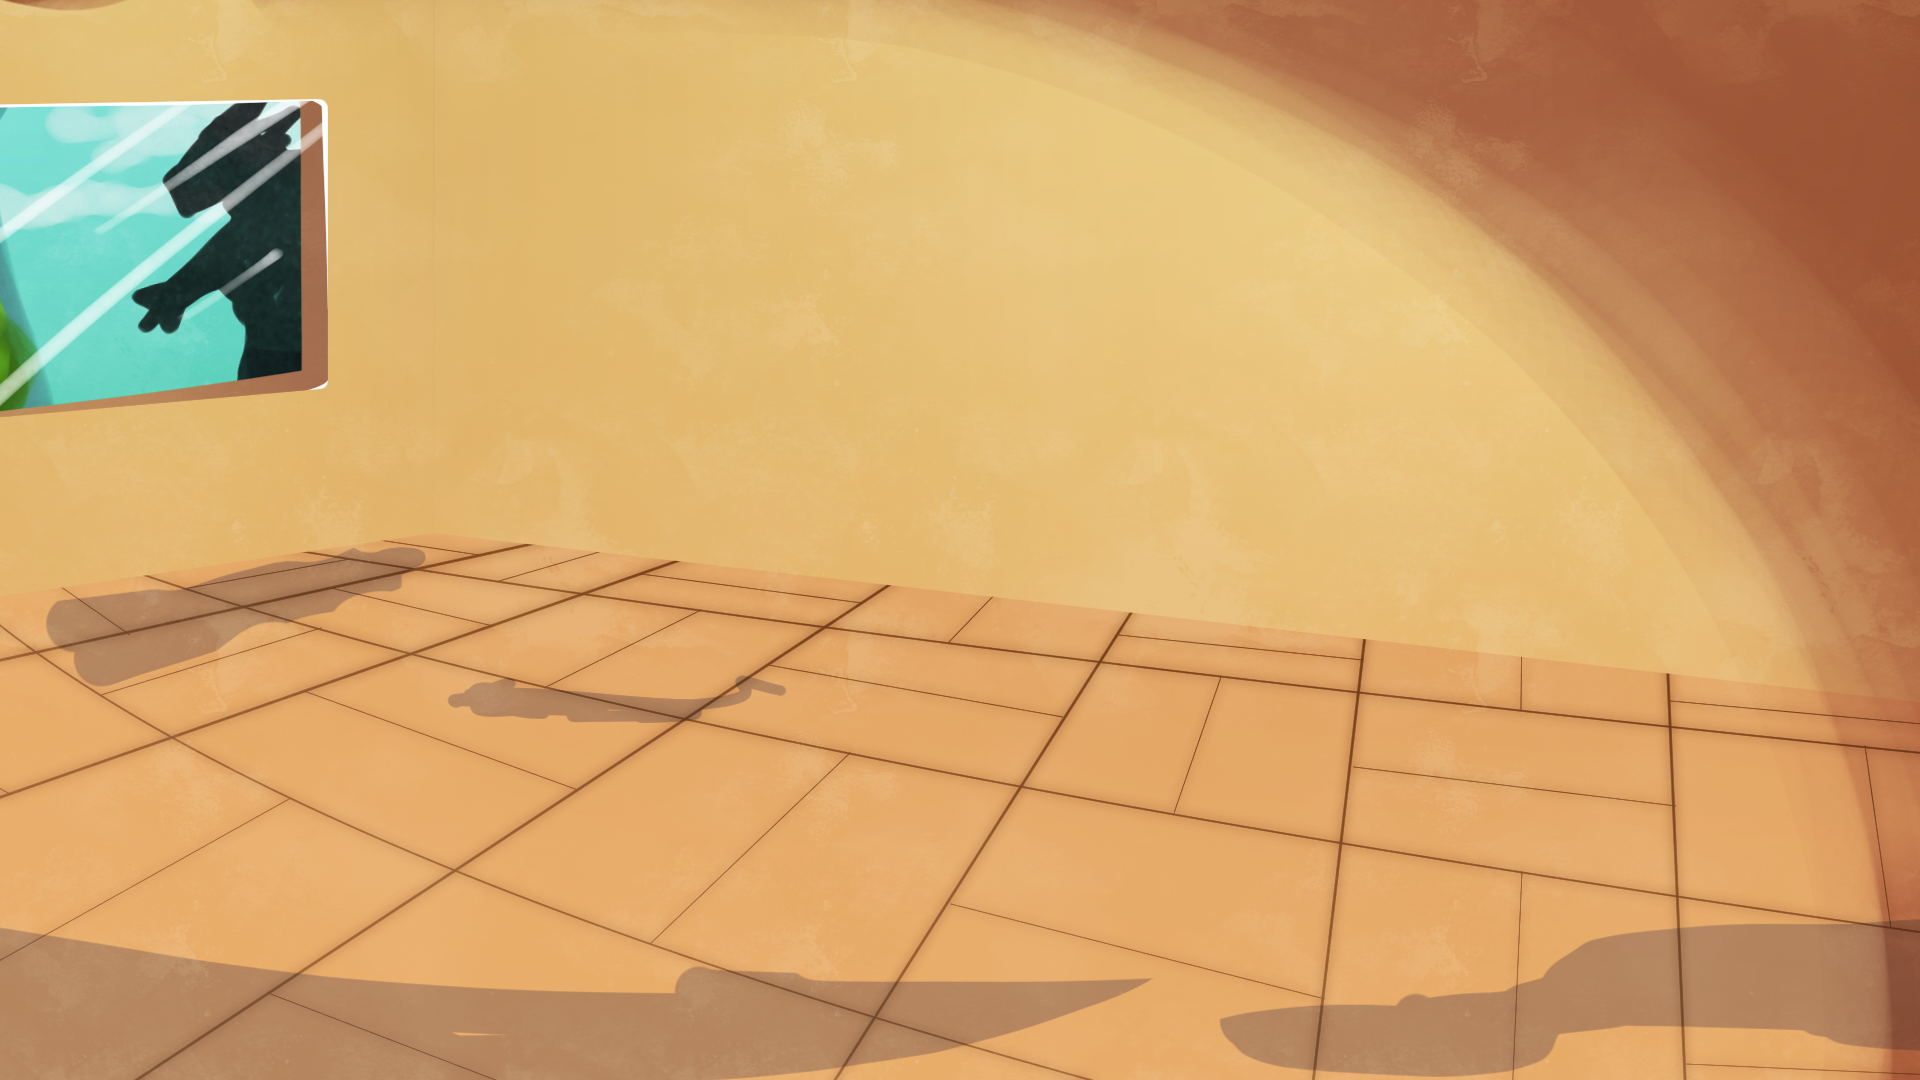
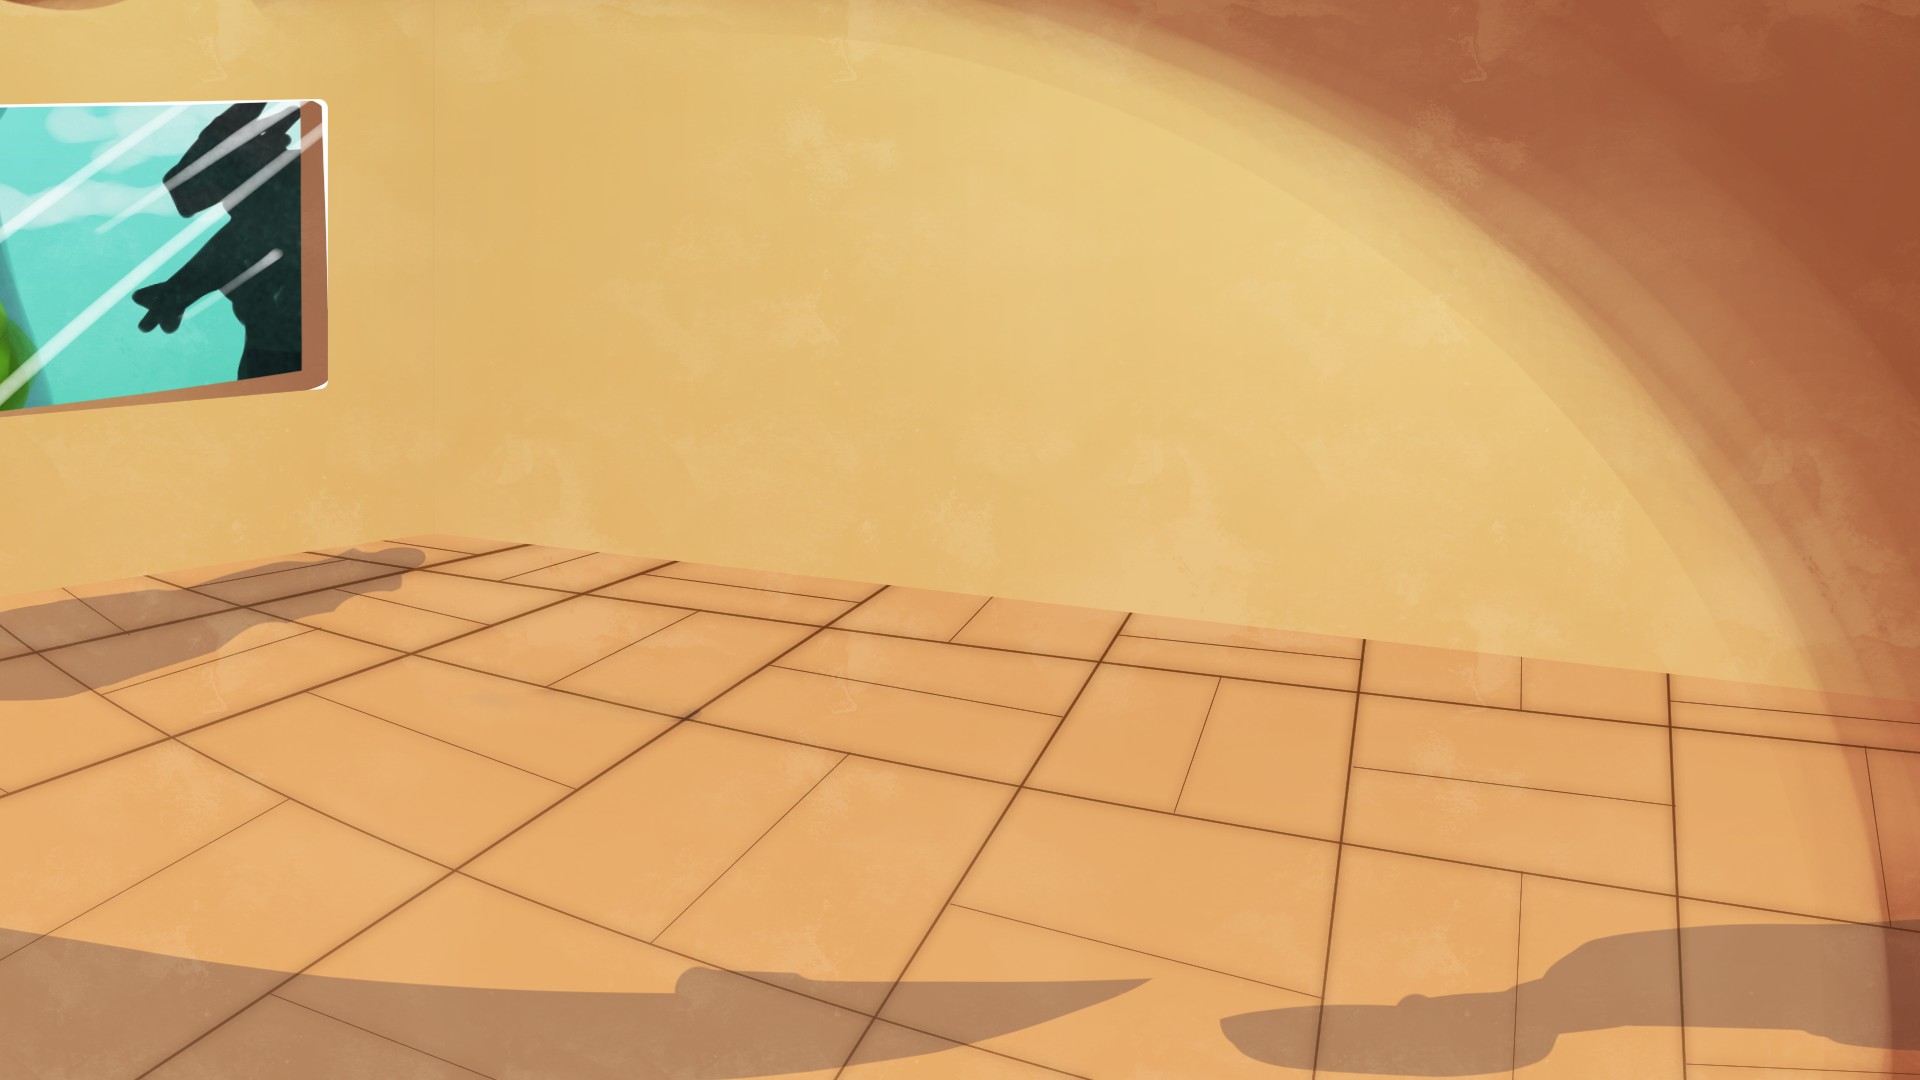
Title screen polish

Changed region(s): [[0.2188, 0.6111, 0.4062, 0.6722], [0.0, 0.55, 0.0625, 0.6722]]

diff --git a/src/scenes/TitleScene.ts b/src/scenes/TitleScene.ts
@@ -33,6 +33,7 @@ export class TitleScene extends BaseScene {
 	public washbear_hand: Phaser.GameObjects.Image;
 	public tail: Phaser.GameObjects.Image;
 	public hand: Phaser.GameObjects.Image;
+	public sparkles: Phaser.GameObjects.Particles.ParticleEmitter;
 	public logo: Phaser.GameObjects.Image;
 
 	public credits: Phaser.GameObjects.Container;
@@ -59,26 +60,31 @@ export class TitleScene extends BaseScene {
 			.setAlpha(0)
 			.setVisible(false);
 		this.chairs = this.add
-			.image(70 + 214, 220 + 226, "title_chairs")
+			.image(70 + 214, 220 + (226*1.8), "title_chairs")
+			.setOrigin(0.5, 0.9)
 			.setAlpha(0)
 			.setVisible(false);
 		this.bath = this.add
-			.image(425 + 173, 430 + 155, "title_bath")
+			.image(425 + 173, 430 + (155*1.9), "title_bath")
+			.setOrigin(0.5, 0.9)
 			.setAlpha(0)
 			.setVisible(false);
 		this.washbear_tail = this.add
-			.image(630 + 156, 590 + 190, "title_washbear_tail")
+			.image(630 + 156, 590 + (190*1.8), "title_washbear_tail")
+			.setOrigin(0.5, 0.9)
 			.setAlpha(0)
 			.setVisible(false);
 		this.tail = this.add.image(0, 0, "title_tail").setAlpha(0).setOrigin(0);
 		this.hand = this.add.image(this.W, 0, "title_hand").setAlpha(0).setOrigin(1, 0);
+		this.sparkles = this.add.particles(0, 0, "sparklesyass", sparkleConfig);
 		this.washbear_hand = this.add
-			.image(1180 + 195, 600 + 240, "title_washbear_hand")
+			.image(1180 + 195, 600 + (240*1.8), "title_washbear_hand")
+			.setOrigin(0.5, 0.9)
 			.setAlpha(0)
 			.setVisible(false);
 		this.logo = this.add
 			.image(this.CX, 270, "title_logo")
-			.setScale(2)
+			.setScale(1)
 			.setAlpha(0)
 			.setVisible(false);
 
@@ -86,6 +92,10 @@ export class TitleScene extends BaseScene {
 
 		this.tail.x -= 400;
 		this.hand.x += 400;
+		this.sparkles.stop(true);
+		// this.sparkles.onParticleEmit( () =>
+		// 	this.sparkles.setFrequency(Phaser.Math.RND.between(200, 400))
+		// );
 
 		this.subtitle = this.addText({
 			x: this.CX,
@@ -260,7 +270,22 @@ export class TitleScene extends BaseScene {
 		if (bar >= 4) this.bath.setVisible(true);
 		if (bar >= 7) this.washbear_tail.setVisible(true);
 		if (bar >= 8) this.washbear_hand.setVisible(true);
+		if (bar >= 8) this.sparkles.start();
 		if (bar >= 10) this.logo.setVisible(true);
+		if (bar == 11) this.tweens.add({
+			targets: this.logo,
+			angle: {from: 0, to: -3},
+			duration: 800,
+			ease: Phaser.Math.Easing.Sine.InOut,
+		})
+		if (bar == 13) this.tweens.add({
+			targets: this.logo,
+			scale: {from: 1.03, to: 1},
+			angle: {from: 3, to: 0},
+			duration: 500,
+			delay: 150,
+			ease: Phaser.Math.Easing.Cubic.Out,
+		})
 		if (bar >= 14) {
 			this.subtitle.setVisible(true);
 			this.credits.setVisible(true);
@@ -271,3 +296,29 @@ export class TitleScene extends BaseScene {
 		// this.select.play();
 	}
 }
+
+const sparkleConfig: Phaser.Types.GameObjects.Particles.ParticleEmitterConfig = {
+	lifespan: {min: 700, max: 1300},
+	blendMode: "ADD",
+	speed: 0,
+	scale: { start: 1.1, end: 0.9 },
+	alpha: { start: 1,   end: 0 },
+	frequency: 200,
+	frame: [0, 1, 2, 3],
+	emitting: true,
+	emitZone: new Phaser.GameObjects.Particles.Zones.RandomZone({
+		getRandomPoint(point) {
+			const shape = new Phaser.Geom.Rectangle(1360, 380, 440, 500);
+			const shape2 = new Phaser.Geom.Polygon("1440 470 1615 410 1740 610 1655 715 1610 855 1490 820 1400 640");
+			for (let i = 0; i < 10; i++) {
+				const newPoint = shape.getRandomPoint();
+				if (shape2.contains(newPoint.x, newPoint.y)) {
+					point.x = newPoint.x;
+					point.y = newPoint.y;
+				}
+			}
+			point.x = point.x ?? 1450;
+			point.y = point.y ?? 550;
+		},
+	}),
+};

diff --git a/src/assets/assets.ts b/src/assets/assets.ts
@@ -199,6 +199,8 @@ const images: Image[] = [
 
 /* Spritesheets */
 const spritesheets: SpriteSheet[] = [
+	// Title screen sparkle
+	spritesheet('titlescreen/sparklesyass', 'sparklesyass', 64, 64),
 	//temp
 	spritesheet('temp/invbutton', 'invbutton', 240, 480),
 	spritesheet('temp/fwbutton', 'fwbutton', 64, 262),
